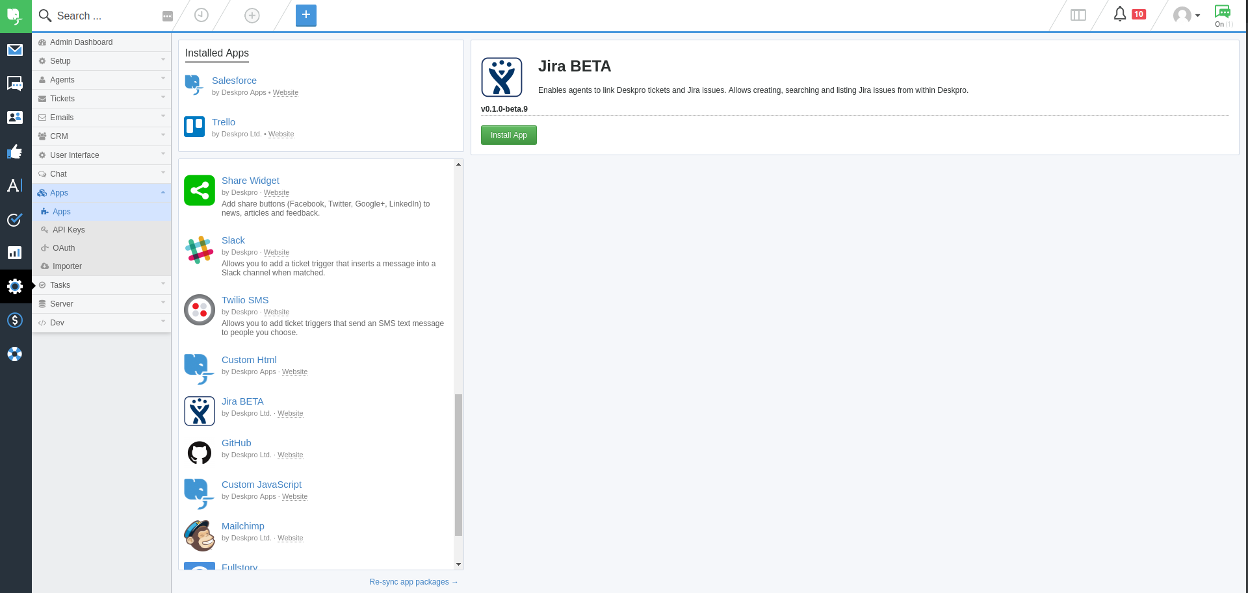
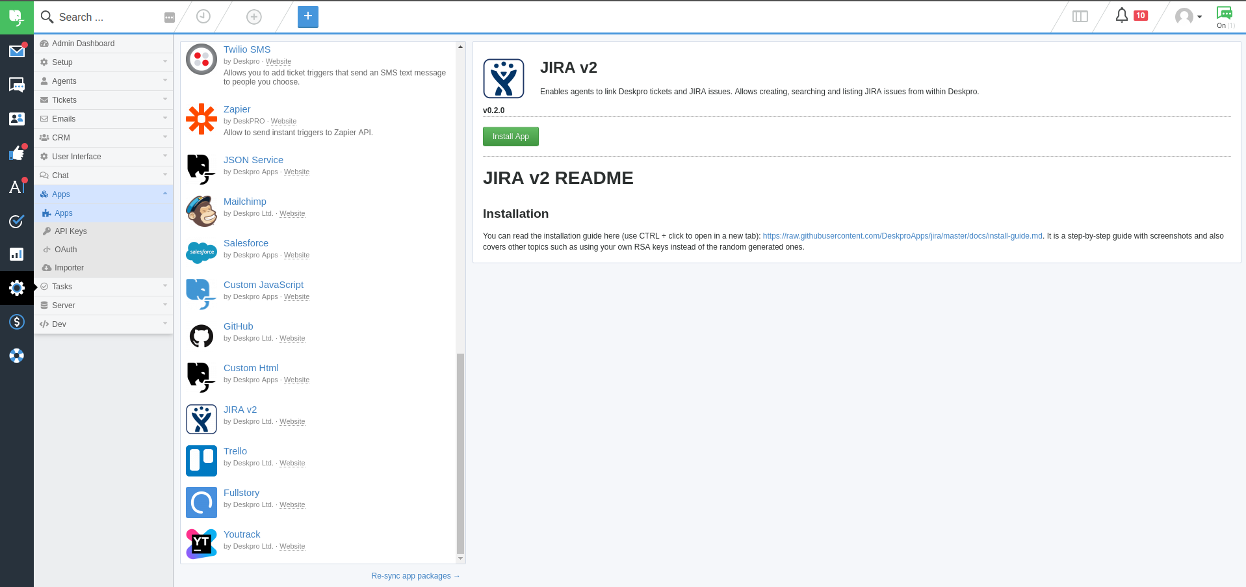
update docs

diff --git a/docs/install-guide.md b/docs/install-guide.md
@@ -3,50 +3,29 @@
 
 ## Installation
 
-1. Pre-requisites
+       
+1. Install the JIRA App in Deskpro
 
-    You will need to generate an openssl certificate to authenticate against your Jira server from the app. You skip this step if your system has openssl installed, otherwise keep on reading for instructions on how to install it
-    
-    1. Debian\Ubuntu Linux:
-    
-        ```
-            sudo apt-get install openssl
-        ```
-    
-    2. CentOS \ Redhat
-    
-        ```
-            sudo yum -y install openssl
-        ```         
-    
-    3. macOS
-    
-        ```
-         brew install openssl
-        ```
-    
-    4. Windows 
-    
-        There are many alternatives which provide the binaries required for Windows (see the  [official wiki](https://wiki.openssl.org/index.php/Binaries) ), but we recommend going to [https://slproweb.com/products/Win32OpenSSL.html](https://slproweb.com/products/Win32OpenSSL.html) and downloading the installer named `Win64 OpenSSL v1.0.2o` or the latest version if available. Run the installer and follow the instructions.
+    1. Install the application
+     
+        Login to your Deskpro instance, then navigate to `Admin`, then click `Apps` from the `Apps` menu. Scroll down and choose `JIRA v2` then click `Install App`
         
-2. Generate public and private keys for secure communications with your JIRA server
+        ![Install application](https://raw.githubusercontent.com/DeskproApps/jira/master/docs/install-guide/006-install-app.small.png)
+        
+    2. Configure the application
     
-    These two keys are required for authentication with your JIRA server. The private key will be stored by your Deskpro instance, while the public key remains on the Jira server.
-    
-    Open a terminal or a command prompt if on windows and type the following commands:
-      
-    1. Generate the private key
+        - User your own keys or click `Generate Keys` to have Deskpro generate a pair for you        
+        - Fill the `The JIRA instance you want to connect to` field with the root url to your JIRA server for example: `https://your-company.atlassian.net` if you are using the cloud version        
+        - Fill the `JIRA Consumer Key` field and remember the value, for example use: deskpro
         
-        ```
-        openssl genrsa -out private.pem 2048
-        ```
+        ![Install application](https://raw.githubusercontent.com/DeskproApps/jira/master/docs/install-guide/007-configure-app.small.png)
         
-    2. Extract the public key
+        Don't click `Update setting` yet. We have to configure the app connection in JIRA.
         
-        ```
-        openssl rsa -in private.pem -outform PEM -pubout -out public.pem
-        ```    
-3. Configure the app connection in JIRA
+        Click `Update settings` and give your consent in the pop-up that appears to authorize the connection between the app and JIRA. 
+        Congratulations! You can now link JIRA issues from inside Deskpro.          
+     
+2. Configure the app connection in JIRA
 
     1. Navigate to `Applications` page
      
@@ -72,26 +51,12 @@
         
     4. Fill in the incoming link details
         
-        You'll have to **remember** the `Consumer Key` because you'll need it when installing the app in Deskpro. 
-        Copy the contents of the `public.pem` file we generated at the beginning in the `Public Key` field.
+        For `Consumer Key` use the value of `JIRA Consumer Key` from Deskpro. You can use the same for `Consumer Name`.
+        In the `Public Key` field copy the contents of `Your public key` from Deskpro
+        
 
-4. Install the JIRA App in Deskpro
-
-    1. Install the application
-     
-        Login to your Deskpro instance, then navigate to `Admin`, then click `Apps` from the `Apps` menu. Scroll down and choose `JIRA v2` then click `Install App`
-        
-        ![Install application](https://raw.githubusercontent.com/DeskproApps/jira/master/docs/install-guide/006-install-app.small.png)
-        
-    2. Configure the application
-    
-        - Fill the `Rsa private key` field with the contents of the `private.pem` file we generated in step 2
-        - Fill the `Rsa public key` field with the contents of the `public.pem` file we generated in step 2        
-        - Fill the `JIRA instance url` field with the url to the JIRA server we used in step 3, for example: `https://your-company.atlassian.net` if you are using the cloud version        
-        - Fill the `JIRA Consumer Key` field with the value of the `Consumer Key` field you remember from step 3
-        
-        ![Install application](https://raw.githubusercontent.com/DeskproApps/jira/master/docs/install-guide/007-configure-app.small.png)
-        
+3. Finish the install in Deskpro
+       
         Click `Update settings` and give your consent in the pop-up that appears to authorize the connection between the app and JIRA. 
         Congratulations! You can now link JIRA issues from inside Deskpro.          
     

diff --git a/docs/install-guide-pre-2018.3.md b/docs/install-guide-pre-2018.3.md
@@ -1,0 +1,98 @@
+# JIRA v2 README
+
+
+## Installation
+
+1. Pre-requisites
+
+    You will need to generate an openssl certificate to authenticate against your Jira server from the app. You skip this step if your system has openssl installed, otherwise keep on reading for instructions on how to install it
+    
+    1. Debian\Ubuntu Linux:
+    
+        ```
+            sudo apt-get install openssl
+        ```
+    
+    2. CentOS \ Redhat
+    
+        ```
+            sudo yum -y install openssl
+        ```         
+    
+    3. macOS
+    
+        ```
+         brew install openssl
+        ```
+    
+    4. Windows 
+    
+        There are many alternatives which provide the binaries required for Windows (see the  [official wiki](https://wiki.openssl.org/index.php/Binaries) ), but we recommend going to [https://slproweb.com/products/Win32OpenSSL.html](https://slproweb.com/products/Win32OpenSSL.html) and downloading the installer named `Win64 OpenSSL v1.0.2o` or the latest version if available. Run the installer and follow the instructions.
+        
+2. Generate public and private keys for secure communications with your JIRA server
+    
+    These two keys are required for authentication with your JIRA server. The private key will be stored by your Deskpro instance, while the public key remains on the Jira server.
+    
+    Open a terminal or a command prompt if on windows and type the following commands:
+      
+    1. Generate the private key
+        
+        ```
+        openssl genrsa -out private.pem 2048
+        ```
+        
+    2. Extract the public key
+        
+        ```
+        openssl rsa -in private.pem -outform PEM -pubout -out public.pem
+        ```    
+3. Configure the app connection in JIRA
+
+    1. Navigate to `Applications` page
+     
+        Log in to your JIRA instance, click the settings menu (small cog wheel next to your profile bage on the top right corner of the page) and choose `Applications`. You should arrive at a page that looks like this:
+        
+        ![Applications page](https://raw.githubusercontent.com/DeskproApps/jira/master/docs/install-guide/001-application-links.small.png)
+        
+    2. Configure an Application Link
+    
+        From the `Integrations` section choose `Application links` and fill the url of your Deskpro instance in the `Create new link` input box:
+        
+        ![Configure application links](https://raw.githubusercontent.com/DeskproApps/jira/master/docs/install-guide/002-configure-application-link.small.png)
+        
+        If you receive a warning the url being invalid although you enter it correctly, it's safe to click `Continue` and ignore it
+        
+        ![Ignore invalid url warning](https://raw.githubusercontent.com/DeskproApps/jira/master/docs/install-guide/003-skip-invalid-url.small.png)
+    
+    3. Link Applications
+        
+        Fill in the fields as shown in the image below and make sure you enable `Create incoming link` then click `Continue`
+        
+        ![Link applications](https://raw.githubusercontent.com/DeskproApps/jira/master/docs/install-guide/004-incoming-link.small.png)
+        
+    4. Fill in the incoming link details
+        
+        You'll have to **remember** the `Consumer Key` because you'll need it when installing the app in Deskpro. 
+        Copy the contents of the `public.pem` file we generated at the beginning in the `Public Key` field.
+
+4. Install the JIRA App in Deskpro
+
+    1. Install the application
+     
+        Login to your Deskpro instance, then navigate to `Admin`, then click `Apps` from the `Apps` menu. Scroll down and choose `JIRA v2` then click `Install App`
+        
+        ![Install application](https://raw.githubusercontent.com/DeskproApps/jira/master/docs/install-guide/006-install-app.small.png)
+        
+    2. Configure the application
+    
+        - Fill the `Rsa private key` field with the contents of the `private.pem` file we generated in step 2
+        - Fill the `Rsa public key` field with the contents of the `public.pem` file we generated in step 2        
+        - Fill the `JIRA instance url` field with the url to the JIRA server we used in step 3, for example: `https://your-company.atlassian.net` if you are using the cloud version        
+        - Fill the `JIRA Consumer Key` field with the value of the `Consumer Key` field you remember from step 3
+        
+        ![Install application](https://raw.githubusercontent.com/DeskproApps/jira/master/docs/install-guide/007-configure-app.small.png)
+        
+        Click `Update settings` and give your consent in the pop-up that appears to authorize the connection between the app and JIRA. 
+        Congratulations! You can now link JIRA issues from inside Deskpro.          
+    
+ 
